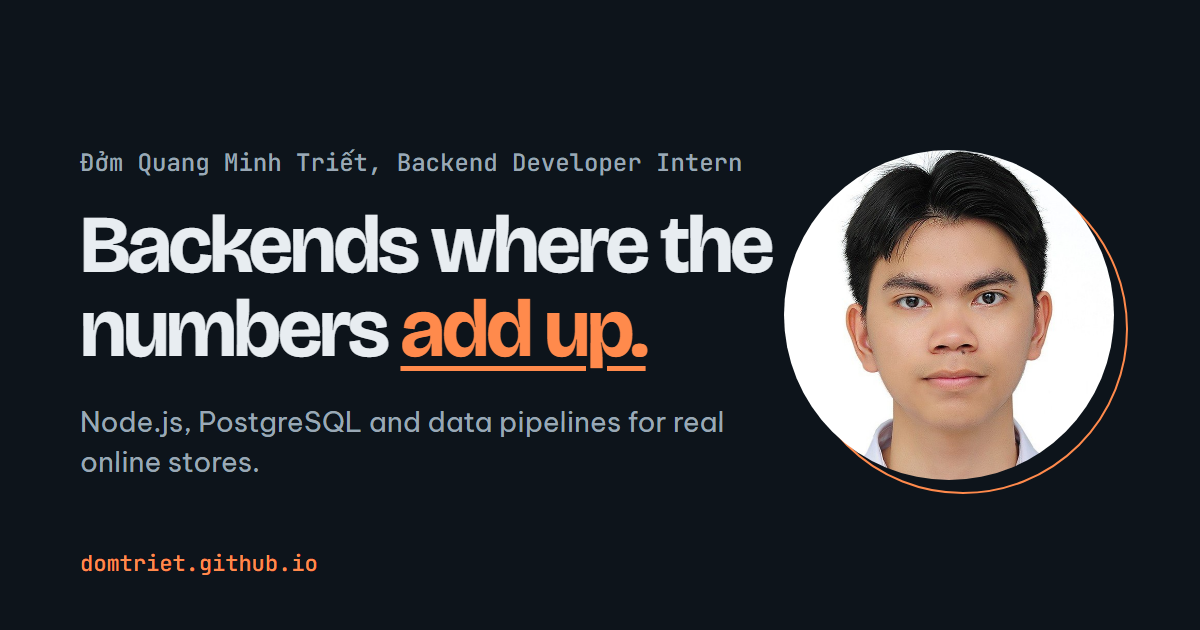
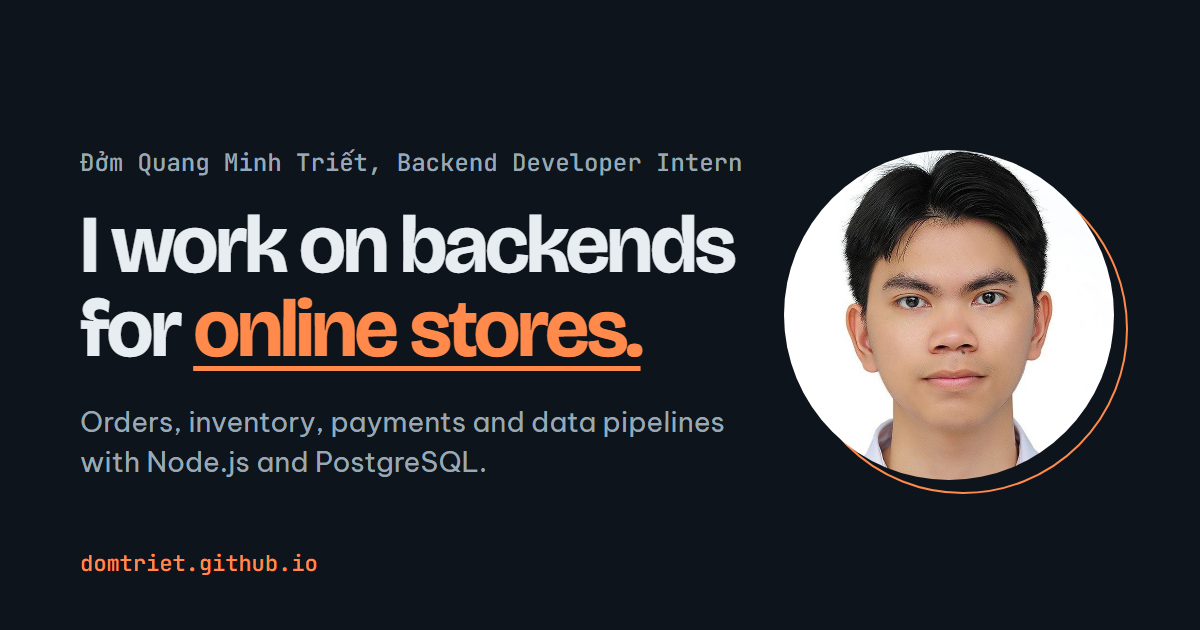
Use neutral, modest wording across the site
Rewrite headline, section titles and descriptions in EN and VI to a
plainer tone, update meta/Open Graph text and the preview image.

Changed region(s): [[0.0617, 0.3317, 0.6475, 0.6032], [0.0617, 0.6333, 0.6167, 0.754]]

diff --git a/js/content.js b/js/content.js
@@ -41,21 +41,21 @@ const UI = {
     "Source code is private (company code). This page covers the architecture and the outcomes.",
     "Mã nguồn là của công ty nên không công khai. Trang này mô tả kiến trúc và kết quả."
   ),
-  footer: T("Built by hand with HTML, CSS and JavaScript.", "Làm thủ công bằng HTML, CSS và JavaScript."),
+  footer: T("Made with HTML, CSS and JavaScript.", "Làm bằng HTML, CSS và JavaScript."),
 };
 
 const HERO = {
   eyebrow: T("Backend developer, open to part-time internships", "Backend developer, tìm thực tập part-time"),
-  title: T("Backends where the numbers <em>add up.</em>", "Backend mà con số nào cũng <em>khớp.</em>"),
+  title: T("I work on backends for <em>online stores.</em>", "Tôi làm backend cho <em>cửa hàng online.</em>"),
   sub: T(
-    "I build order, inventory and payment backends for online stores, and the data pipelines that check the numbers.",
-    "Tôi xây backend đơn hàng, kho và thanh toán cho cửa hàng online, cùng pipeline dữ liệu để đối chiếu mọi con số."
+    "Mostly orders, inventory, payments and the data pipelines around them, while finishing my Information Systems degree.",
+    "Chủ yếu là đơn hàng, kho, thanh toán và pipeline dữ liệu đi kèm, song song với việc hoàn thành chương trình Hệ thống thông tin."
   ),
 };
 
 /* The results ledger: label ........ value */
 const RESULTS = {
-  title: T("What it adds up to", "Kết quả cộng lại"),
+  title: T("A few numbers", "Một vài con số"),
   groups: [
     {
       title: T("IMYSM Studio", "IMYSM Studio"),
@@ -69,7 +69,7 @@ const RESULTS = {
     {
       title: T("BrownVN and ads", "BrownVN và quảng cáo"),
       rows: [
-        { label: T("Admin modules built solo", "Module admin tự xây"), value: "13" },
+        { label: T("Admin modules", "Module quản trị"), value: "13" },
         { label: T("REST endpoints", "REST endpoint"), value: "~71" },
         { label: T("Meta Ads ROAS (Meta-attributed), 09/2026", "ROAS Meta Ads (theo Meta), 09/2026"), value: "3.4x" },
         { label: T("Meta Ads link CTR, 09/2026", "CTR liên kết Meta Ads, 09/2026"), value: "1.5%" },
@@ -79,45 +79,45 @@ const RESULTS = {
 };
 
 const ABOUT = {
-  pull: T("Money, stock and data should add up.", "Tiền, tồn kho và dữ liệu phải khớp nhau."),
+  pull: T("About me", "Về tôi"),
   paras: [
     T(
-      "I'm a fourth-year Information Systems student at the University of Science, VNU-HCM (GPA 8.24/10). Alongside my studies I have designed and shipped two production e-commerce systems for Vietnamese fashion brands: <b>IMYSM Studio</b>, which replaced Haravan, and <b>BrownVN</b>, which I built and run on my own.",
-      "Tôi là sinh viên năm 4 ngành Hệ thống thông tin, ĐH Khoa học Tự nhiên, ĐHQG TP.HCM (GPA 8,24/10). Song song việc học, tôi đã thiết kế và đưa vào vận hành hai hệ thống thương mại điện tử cho các thương hiệu thời trang Việt: <b>IMYSM Studio</b>, thay thế Haravan, và <b>BrownVN</b>, do tôi tự xây và vận hành."
+      "I'm a fourth-year Information Systems student at the University of Science, VNU-HCM (GPA 8.24/10). Alongside my studies I work on two e-commerce systems used by Vietnamese fashion brands: <b>IMYSM Studio</b>, which replaced Haravan, and <b>BrownVN</b>, which I built and maintain.",
+      "Tôi là sinh viên năm 4 ngành Hệ thống thông tin, ĐH Khoa học Tự nhiên, ĐHQG TP.HCM (GPA 8,24/10). Song song việc học, tôi làm trên hai hệ thống thương mại điện tử đang được các thương hiệu thời trang Việt sử dụng: <b>IMYSM Studio</b>, thay thế Haravan, và <b>BrownVN</b>, do tôi xây dựng và bảo trì."
     ),
     T(
-      "I also run the brand's ads, monthly reports and day-to-day operations, so I know the problems the software has to solve first-hand.",
-      "Tôi cũng phụ trách quảng cáo, báo cáo hằng tháng và vận hành shop, nên hiểu rõ bài toán mà phần mềm cần giải quyết."
+      "I also help with the brand's ads, monthly reports and day-to-day operations, which helps me understand what the software needs to do.",
+      "Tôi cũng hỗ trợ quảng cáo, báo cáo hằng tháng và vận hành shop, nhờ vậy hiểu rõ hơn phần mềm cần làm gì."
     ),
     T(
-      "<b>How I work:</b> I write the specification, design the schema and architecture, and review every change. I use Claude Code as a pair programmer, and every change goes through my review and automated tests before it ships.",
-      "<b>Cách tôi làm việc:</b> tôi viết đặc tả, thiết kế schema và kiến trúc, review mọi thay đổi. Tôi dùng Claude Code như một pair programmer, và mọi thay đổi đều qua review của tôi cùng test tự động trước khi phát hành."
+      "<b>How I work:</b> I start from a written specification and the database schema, use Claude Code as a pair programmer, and review changes and run automated tests before release.",
+      "<b>Cách tôi làm việc:</b> tôi bắt đầu từ đặc tả và schema cơ sở dữ liệu, dùng Claude Code như một pair programmer, review thay đổi và chạy test tự động trước khi phát hành."
     ),
   ],
-  doTitle: T("What I do", "Tôi làm gì"),
+  doTitle: T("What I work on", "Những việc tôi làm"),
   does: [
     {
-      title: T("Order and inventory engines", "Lõi đơn hàng và kho"),
-      body: T("Transactional order creation and FIFO batch costing, so cost of goods is accurate to the batch.", "Tạo đơn trong transaction và giá vốn FIFO theo lô, để giá vốn chính xác đến từng lô."),
+      title: T("Orders and inventory", "Đơn hàng và kho"),
+      body: T("Transactional order creation and FIFO batch costing for cost of goods.", "Tạo đơn trong transaction và tính giá vốn FIFO theo lô."),
     },
     {
-      title: T("Payments that confirm themselves", "Thanh toán tự xác nhận"),
-      body: T("VietQR and SePay transfers verified by HMAC-signed webhooks, then a Zalo message to the customer.", "Chuyển khoản VietQR và SePay được xác thực bằng webhook ký HMAC, sau đó gửi tin Zalo cho khách."),
+      title: T("Payment confirmation", "Xác nhận thanh toán"),
+      body: T("VietQR and SePay transfers confirmed through HMAC-signed webhooks, with a Zalo notification to the customer.", "Chuyển khoản VietQR và SePay được xác nhận qua webhook ký HMAC, kèm thông báo Zalo cho khách."),
     },
     {
-      title: T("Pipelines that check the work", "Pipeline kiểm tra lại số liệu"),
-      body: T("Idempotent migrations and a daily ad-data ETL that reconciles with the cost ledger within 1%.", "Migration idempotent và ETL dữ liệu quảng cáo hằng ngày, khớp sổ chi phí trong vòng 1%."),
+      title: T("Data pipelines", "Pipeline dữ liệu"),
+      body: T("Idempotent data migration and a daily ad-data ETL that is reconciled against the cost ledger.", "Migration dữ liệu idempotent và ETL dữ liệu quảng cáo hằng ngày, được đối chiếu với sổ chi phí."),
     },
     {
-      title: T("The business side", "Phía kinh doanh"),
-      body: T("Paid social, monthly reporting and daily store operations, done before and alongside the code.", "Quảng cáo, báo cáo hằng tháng và vận hành shop hằng ngày, làm trước và song song với việc viết code."),
+      title: T("Operations", "Vận hành"),
+      body: T("Paid social, monthly reporting and daily store tasks alongside development.", "Quảng cáo, báo cáo hằng tháng và công việc shop hằng ngày, song song với phát triển."),
     },
   ],
 };
 
 /* ---------- Work ---------- */
 const WORK = {
-  title: T("Selected work", "Dự án chính"),
+  title: T("Work", "Dự án"),
   imysm: {
     name: "IMYSM Studio",
     url: "https://imysmstudio.com",
@@ -129,21 +129,21 @@ const WORK = {
     ),
     stack: ["React", "Node.js", "Express", "Supabase PostgreSQL", "Row-Level Security", "SePay / VietQR", "Zalo OA", "Meta Graph API", "Playwright", "Vercel", "Railway"],
     problem: T(
-      "The brand sells across its website, Facebook, Instagram, Zalo and TikTok, and needed one system for every direct-channel order in place of Haravan.",
-      "Thương hiệu bán qua website, Facebook, Instagram, Zalo và TikTok, và cần một hệ thống duy nhất cho mọi đơn kênh trực tiếp thay cho Haravan."
+      "The brand sells through its website, Facebook, Instagram, Zalo and TikTok, and wanted one system for direct-channel orders instead of Haravan.",
+      "Thương hiệu bán qua website, Facebook, Instagram, Zalo và TikTok, và muốn có một hệ thống chung cho đơn kênh trực tiếp thay cho Haravan."
     ),
     built: [
-      T("<b>Order and inventory core:</b> transactional order creation, FIFO batch costing for accurate COGS, and role-based access with Supabase Auth and Row-Level Security.", "<b>Lõi đơn hàng và kho:</b> tạo đơn trong transaction, giá vốn FIFO theo lô cho COGS chính xác, phân quyền bằng Supabase Auth và Row-Level Security."),
+      T("<b>Orders and inventory:</b> transactional order creation, FIFO batch costing for COGS, and role-based access with Supabase Auth and Row-Level Security.", "<b>Đơn hàng và kho:</b> tạo đơn trong transaction, giá vốn FIFO theo lô cho COGS, phân quyền bằng Supabase Auth và Row-Level Security."),
       T("<b>Automated payments:</b> VietQR/SePay transfers confirmed through HMAC-signed webhooks, triggering Zalo order and shipping notifications.", "<b>Thanh toán tự động:</b> chuyển khoản VietQR/SePay xác nhận qua webhook ký HMAC, kích hoạt thông báo Zalo về đơn và vận chuyển."),
-      T("<b>Idempotent migration</b> from Haravan: 6,281 historical orders and 11,392 transaction rows, rehearsed first, with an exceptions queue that never guesses an unmapped SKU.", "<b>Migration idempotent</b> từ Haravan: 6.281 đơn lịch sử và 11.392 dòng giao dịch, chạy thử trước, có hàng đợi ngoại lệ, không bao giờ đoán SKU chưa map được."),
+      T("<b>Idempotent migration</b> from Haravan: 6,281 historical orders and 11,392 transaction rows, rehearsed first, with an exceptions queue for unmapped SKUs.", "<b>Migration idempotent</b> từ Haravan: 6.281 đơn lịch sử và 11.392 dòng giao dịch, chạy thử trước, có hàng đợi ngoại lệ cho SKU chưa map được."),
       T("<b>Daily Meta Ads ETL</b> from the Graph API into PostgreSQL, powering ROAS, CTR and CPC dashboards and a rule-based recommender.", "<b>ETL Meta Ads hằng ngày</b> từ Graph API vào PostgreSQL, cấp dữ liệu cho dashboard ROAS, CTR, CPC và bộ đề xuất theo luật."),
       T("<b>Tests:</b> critical flows covered by Playwright end-to-end tests and production smoke tests.", "<b>Kiểm thử:</b> các luồng quan trọng được phủ bằng test end-to-end Playwright và smoke test trên production."),
     ],
     outcome: T(
-      "It now handles every direct-channel order. In its first full month (09/2026) the website drove about <b>60% of direct revenue</b>, and the monthly ad figures match the cost ledger and the Meta API within <b>1%</b>.",
-      "Hệ thống hiện xử lý mọi đơn kênh trực tiếp. Trong tháng đầy đủ đầu tiên (09/2026), website chiếm khoảng <b>60% doanh thu kênh trực tiếp</b>, số liệu quảng cáo hằng tháng khớp sổ chi phí và Meta API trong vòng <b>1%</b>."
+      "The system is used for direct-channel orders. In its first full month (09/2026) the website accounted for about 60% of direct revenue, and monthly ad figures were within 1% of the cost ledger and the Meta API.",
+      "Hệ thống đang được dùng cho đơn kênh trực tiếp. Trong tháng đầy đủ đầu tiên (09/2026), website chiếm khoảng 60% doanh thu kênh trực tiếp, số liệu quảng cáo hằng tháng chênh dưới 1% so với sổ chi phí và Meta API."
     ),
-    labels: { problem: T("Problem", "Vấn đề"), built: T("Built", "Đã xây"), outcome: T("Outcome", "Kết quả") },
+    labels: { problem: T("Context", "Bối cảnh"), built: T("What I worked on", "Phần tôi làm"), outcome: T("Results so far", "Kết quả đến nay") },
   },
   map: {
     title: T("How it fits together", "Các phần khớp nhau thế nào"),
@@ -154,11 +154,11 @@ const WORK = {
         tab: T("Order to payment", "Từ đơn đến thanh toán"),
         steps: [
           { name: T("Order placed", "Đặt đơn"), body: T("A customer orders on the website or through a social channel. All direct channels land in the same system.", "Khách đặt đơn trên website hoặc qua kênh mạng xã hội. Mọi kênh trực tiếp cùng đổ về một hệ thống.") },
-          { name: T("Transactional create", "Tạo đơn trong transaction"), body: T("The order and its stock movement are written in one database transaction, so a half-saved order cannot exist.", "Đơn hàng và biến động tồn kho được ghi trong một transaction, nên không thể có đơn lưu dở.") },
-          { name: T("FIFO costing", "Giá vốn FIFO"), body: T("Stock is consumed from the oldest batch first, so each order carries the true cost of the batch it used.", "Hàng được xuất từ lô cũ nhất trước, nên mỗi đơn mang đúng giá vốn của lô đã dùng.") },
+          { name: T("Transactional create", "Tạo đơn trong transaction"), body: T("The order and its stock movement are written in one database transaction to avoid partially saved orders.", "Đơn hàng và biến động tồn kho được ghi trong một transaction để tránh đơn lưu dở.") },
+          { name: T("FIFO costing", "Giá vốn FIFO"), body: T("Stock is taken from the oldest batch first, and each order records the cost of the batch it used.", "Hàng được xuất từ lô cũ nhất trước, mỗi đơn ghi nhận giá vốn của lô đã dùng.") },
           { name: T("Bank transfer", "Chuyển khoản"), body: T("The customer pays by VietQR. SePay watches the bank account and reports the transfer.", "Khách thanh toán bằng VietQR. SePay theo dõi tài khoản ngân hàng và báo lại giao dịch.") },
-          { name: T("HMAC webhook", "Webhook HMAC"), body: T("The webhook signature is verified with HMAC before anything is trusted, then the order is matched and confirmed.", "Chữ ký webhook được xác thực bằng HMAC trước khi tin bất cứ điều gì, sau đó đơn được đối khớp và xác nhận.") },
-          { name: T("Zalo notification", "Thông báo Zalo"), body: T("The customer gets order and shipping updates on Zalo, with no one confirming payment by hand.", "Khách nhận cập nhật đơn hàng và vận chuyển qua Zalo, không ai phải xác nhận thanh toán thủ công.") },
+          { name: T("HMAC webhook", "Webhook HMAC"), body: T("The webhook signature is verified with HMAC, then the transfer is matched to the order and confirmed.", "Chữ ký webhook được xác thực bằng HMAC, sau đó giao dịch được đối khớp với đơn và xác nhận.") },
+          { name: T("Zalo notification", "Thông báo Zalo"), body: T("The customer receives order and shipping updates on Zalo.", "Khách nhận cập nhật đơn hàng và vận chuyển qua Zalo.") },
         ],
       },
       {
@@ -166,9 +166,9 @@ const WORK = {
         tab: T("Haravan migration", "Migration từ Haravan"),
         steps: [
           { name: T("Haravan export", "Dữ liệu Haravan"), body: T("6,281 historical orders and 11,392 transaction rows exported from the old platform.", "6.281 đơn lịch sử và 11.392 dòng giao dịch được xuất từ nền tảng cũ.") },
-          { name: T("Rehearsal", "Chạy thử"), body: T("The whole migration is rehearsed on a copy first, so surprises show up before production does.", "Toàn bộ migration được chạy thử trên bản sao trước, để bất ngờ xuất hiện trước khi chạy thật.") },
+          { name: T("Rehearsal", "Chạy thử"), body: T("The migration is rehearsed on a copy first to catch issues before the real run.", "Migration được chạy thử trên bản sao trước để phát hiện lỗi trước khi chạy thật.") },
           { name: T("Idempotent load", "Nạp idempotent"), body: T("The load can be re-run safely: running it twice gives the same result as running it once.", "Có thể chạy lại an toàn: chạy hai lần cho kết quả giống chạy một lần.") },
-          { name: T("Exceptions queue", "Hàng đợi ngoại lệ"), body: T("A row with an unmapped SKU goes to a queue for a person to resolve. The pipeline never guesses.", "Dòng có SKU chưa map được đưa vào hàng đợi để người xử lý. Pipeline không bao giờ đoán.") },
+          { name: T("Exceptions queue", "Hàng đợi ngoại lệ"), body: T("Rows with an unmapped SKU go to a queue for manual review.", "Dòng có SKU chưa map được đưa vào hàng đợi để xem xét thủ công.") },
         ],
       },
       {
@@ -177,9 +177,9 @@ const WORK = {
         steps: [
           { name: T("Meta Graph API", "Meta Graph API"), body: T("Ad spend and performance are pulled from the Graph API once a day.", "Chi phí và hiệu quả quảng cáo được lấy từ Graph API mỗi ngày.") },
           { name: T("ETL", "ETL"), body: T("The raw data is cleaned and shaped into tables that match how the business reads its numbers.", "Dữ liệu thô được làm sạch và chuyển thành bảng khớp với cách doanh nghiệp đọc số liệu.") },
-          { name: T("PostgreSQL", "PostgreSQL"), body: T("Everything lands in PostgreSQL next to orders and the cost ledger, so ads and sales can be joined.", "Mọi thứ nằm trong PostgreSQL cạnh đơn hàng và sổ chi phí, nên có thể ghép quảng cáo với doanh số.") },
-          { name: T("Dashboards", "Dashboard"), body: T("ROAS, CTR and CPC dashboards, plus a rule-based recommender that suggests where budget should move.", "Dashboard ROAS, CTR, CPC, cùng bộ đề xuất theo luật gợi ý nơi nên chuyển ngân sách.") },
-          { name: T("Reconciliation", "Đối chiếu"), body: T("Monthly figures are checked against the cost ledger and the Meta API and agree within 1%.", "Số liệu hằng tháng được đối chiếu với sổ chi phí và Meta API và khớp trong vòng 1%.") },
+          { name: T("PostgreSQL", "PostgreSQL"), body: T("The data is stored in PostgreSQL next to orders and the cost ledger, so ads and sales can be compared.", "Dữ liệu được lưu trong PostgreSQL cạnh đơn hàng và sổ chi phí, nên có thể so sánh quảng cáo với doanh số.") },
+          { name: T("Dashboards", "Dashboard"), body: T("ROAS, CTR and CPC dashboards, plus simple rule-based budget suggestions.", "Dashboard ROAS, CTR, CPC, cùng gợi ý ngân sách đơn giản theo luật.") },
+          { name: T("Reconciliation", "Đối chiếu"), body: T("Monthly figures are checked against the cost ledger and the Meta API (difference under 1%).", "Số liệu hằng tháng được đối chiếu với sổ chi phí và Meta API (chênh dưới 1%).") },
         ],
       },
     ],
@@ -189,7 +189,7 @@ const WORK = {
     url: "https://brownvn.com",
     urlLabel: "brownvn.com",
     role: T("Freelance Full-stack Developer, 01/2026 - Present", "Freelance Full-stack Developer, 01/2026 - Hiện tại"),
-    summary: T("A fashion brand's storefront, admin dashboard and database, built and run by me alone.", "Storefront, trang quản trị và cơ sở dữ liệu của một thương hiệu thời trang, do một mình tôi xây và vận hành."),
+    summary: T("Storefront, admin dashboard and database for a fashion brand, which I built and maintain.", "Storefront, trang quản trị và cơ sở dữ liệu cho một thương hiệu thời trang, do tôi xây dựng và bảo trì."),
     figures: [
       { value: "13", label: T("admin modules", "module admin") },
       { value: "~71", label: T("REST endpoints", "REST endpoint") },
@@ -211,14 +211,14 @@ const EXPERIENCE = {
       dateVi: "08/2026 - Hiện tại",
       role: T("Full-stack Developer, IMYSM", "Full-stack Developer, IMYSM"),
       meta: T("Part-time, Ho Chi Minh City", "Part-time, TP. Hồ Chí Minh"),
-      body: [T("Designed, built and run IMYSM Studio. The full story is in Selected work above.", "Thiết kế, xây dựng và vận hành IMYSM Studio. Câu chuyện đầy đủ nằm ở phần Dự án chính phía trên.")],
+      body: [T("Work on IMYSM Studio. Details are in the Work section above.", "Làm trên IMYSM Studio. Chi tiết ở phần Dự án phía trên.")],
     },
     {
       date: "01/2026 - Present",
       dateVi: "01/2026 - Hiện tại",
       role: T("Freelance Full-stack Developer, BrownVN", "Freelance Full-stack Developer, BrownVN"),
       meta: T("Freelance", "Freelance"),
-      body: [T("Built and run the storefront, admin dashboard and database solo. Details are in Selected work above.", "Tự xây và vận hành storefront, trang quản trị và cơ sở dữ liệu. Chi tiết nằm ở phần Dự án chính phía trên.")],
+      body: [T("Built and maintain the storefront, admin dashboard and database. Details are in the Work section above.", "Xây dựng và bảo trì storefront, trang quản trị và cơ sở dữ liệu. Chi tiết ở phần Dự án phía trên.")],
     },
     {
       date: "07/2024 - Present",
@@ -226,7 +226,7 @@ const EXPERIENCE = {
       role: T("Marketing and Operations Analyst, IMYSM", "Marketing và Operations Analyst, IMYSM"),
       meta: T("Part-time, fashion brand selling through its website, social channels and marketplaces", "Part-time, thương hiệu thời trang bán qua website, mạng xã hội và sàn TMĐT"),
       body: [
-        T("Run Meta ads (about 6.3M VND spend in 09/2026): <b>3.4x Meta-attributed ROAS</b> (7.0x on total direct-channel revenue) and <b>1.5% link CTR</b>.", "Chạy quảng cáo Meta (chi khoảng 6,3 triệu đ trong 09/2026): <b>ROAS 3,4x theo Meta</b> (7,0x trên toàn bộ doanh thu kênh trực tiếp) và <b>CTR liên kết 1,5%</b>."),
+        T("Run Meta ads (about 6.3M VND spend in 09/2026): 3.4x Meta-attributed ROAS (7.0x on total direct-channel revenue) and 1.5% link CTR.", "Chạy quảng cáo Meta (chi khoảng 6,3 triệu đ trong 09/2026): ROAS 3,4x theo Meta (7,0x trên toàn bộ doanh thu kênh trực tiếp) và CTR liên kết 1,5%."),
         T("Prepare monthly business reports (revenue, costs and profit by channel and SKU) from stock counts and sales data.", "Làm báo cáo kinh doanh hằng tháng (doanh thu, chi phí, lợi nhuận theo kênh và SKU) từ kiểm kho và dữ liệu bán hàng."),
         T("Handle store operations: order packing, stock checks, goods receiving and expense tracking.", "Vận hành shop: soạn đơn, kiểm kho, nhập hàng và theo dõi chi tiêu."),
       ],
@@ -275,8 +275,8 @@ const UNIVERSITY = {
     date: "01/2026 - 05/2026",
     sub: T("Data Security in IS course, team of 5", "Môn An toàn và bảo mật dữ liệu trong HTTT, nhóm 5 người"),
     body: T(
-      "Built the core of Subsystem 1: a C# WinForms Oracle admin app to create and drop users and roles, grant and revoke privileges (WITH GRANT OPTION, column-level SELECT and UPDATE) and inspect privileges per user or role. The wider project secured a hospital database with RBAC, VPD, Oracle Label Security, auditing and RMAN recovery.",
-      "Xây nền tảng Phân hệ 1: ứng dụng C# WinForms quản trị Oracle, tạo và xóa user, role, cấp và thu hồi quyền (WITH GRANT OPTION, SELECT và UPDATE cấp cột) và xem quyền theo user hoặc role. Toàn đồ án bảo mật CSDL bệnh viện bằng RBAC, VPD, Oracle Label Security, kiểm toán và khôi phục RMAN."
+      "Worked on Subsystem 1: a C# WinForms Oracle admin app to create and drop users and roles, grant and revoke privileges (WITH GRANT OPTION, column-level SELECT and UPDATE) and inspect privileges per user or role. The wider project secured a hospital database with RBAC, VPD, Oracle Label Security, auditing and RMAN recovery.",
+      "Làm Phân hệ 1: ứng dụng C# WinForms quản trị Oracle, tạo và xóa user, role, cấp và thu hồi quyền (WITH GRANT OPTION, SELECT và UPDATE cấp cột) và xem quyền theo user hoặc role. Toàn đồ án bảo mật CSDL bệnh viện bằng RBAC, VPD, Oracle Label Security, kiểm toán và khôi phục RMAN."
     ),
     stack: ["Oracle", "C#", "WinForms", "RBAC", "VPD", "OLS"],
     url: "https://github.com/DomTriet/oracle-admin-hospital-security",
@@ -286,9 +286,9 @@ const UNIVERSITY = {
 /* ---------- Skills, foundation at the bottom ---------- */
 const SKILLS = {
   title: T("Skills", "Kỹ năng"),
-  intro: T("Stacked from foundation to growing edge, the way I think about a system.", "Xếp từ nền tảng đến phần đang phát triển, đúng cách tôi nghĩ về một hệ thống."),
+  intro: T("Grouped from fundamentals at the bottom to what I am still learning at the top.", "Xếp từ kiến thức nền ở dưới đến những thứ tôi đang học ở trên."),
   layers: [
-    { name: T("Growing edge", "Đang phát triển"), edge: true, items: ["ETL pipelines", "pandas", "PyTorch", "Meta Graph API", "Google Sheets API", "Knowledge-graph recommenders (KGAT)"] },
+    { name: T("Currently learning", "Đang học"), edge: true, items: ["ETL pipelines", "pandas", "PyTorch", "Meta Graph API", "Google Sheets API", "Knowledge-graph recommenders (KGAT)"] },
     { name: T("Delivery and quality", "Triển khai và chất lượng"), items: ["Git / GitHub", "GitHub Actions CI", "Jest", "Playwright (E2E)", "ESLint", "Vercel", "Railway"] },
     { name: T("Frontend and integrations", "Frontend và tích hợp"), items: ["React", "Angular", "Vite", "Tailwind CSS", "SePay / VietQR", "Zalo OA", "GHN", "PayPal", "Cloudinary", "Meta Pixel / CAPI"] },
     { name: T("Services", "Dịch vụ"), items: ["Node.js", "Express", "REST API design", "Zod validation", "Webhooks (HMAC)", "Authentication and RBAC"] },
@@ -296,7 +296,7 @@ const SKILLS = {
     { name: T("Foundations", "Nền tảng"), items: ["JavaScript", "TypeScript", "SQL", "Python", "C#"] },
   ],
   business: {
-    name: T("Beside the stack: the business side", "Bên cạnh stack: phía kinh doanh"),
+    name: T("Other", "Khác"),
     items: ["Meta Ads", "P&L, COGS and ROAS reporting", "Excel", "Google Sheets", "Inventory management"],
   },
 };
@@ -342,8 +342,8 @@ const EDU = {
 const CONTACT = {
   title: T("Looking for a backend internship in Ho Chi Minh City.", "Đang tìm thực tập Backend tại TP. Hồ Chí Minh."),
   body: T(
-    "Part-time, available throughout the week, growing toward Data Engineering. If you have a problem with orders, stock, payments or messy data, I'd like to hear it.",
-    "Part-time, làm được cả tuần, định hướng Data Engineering. Nếu bạn có bài toán về đơn hàng, kho, thanh toán hoặc dữ liệu lộn xộn, tôi rất muốn nghe."
+    "Part-time, available throughout the week, with an interest in Data Engineering. I would be glad to hear about suitable openings.",
+    "Part-time, làm được cả tuần, quan tâm đến Data Engineering. Tôi rất mong nhận được thông tin về các vị trí phù hợp."
   ),
   cvEn: T("CV in English (PDF)", "CV tiếng Anh (PDF)"),
   cvVi: T("CV in Vietnamese (PDF)", "CV tiếng Việt (PDF)"),

diff --git a/index.html b/index.html
@@ -4,7 +4,7 @@
 <meta charset="utf-8">
 <meta name="viewport" content="width=device-width, initial-scale=1">
 <title>Đởm Quang Minh Triết | Backend Developer Intern (Node.js, PostgreSQL)</title>
-<meta name="description" content="Backend Developer Intern in Ho Chi Minh City. Designed and shipped two production e-commerce backends: FIFO inventory, payment webhooks and ETL pipelines.">
+<meta name="description" content="Information Systems student in Ho Chi Minh City working on e-commerce backends and data pipelines with Node.js and PostgreSQL. Open to part-time backend internships.">
 <meta name="author" content="Đởm Quang Minh Triết">
 <meta name="theme-color" content="#0d141b" media="(prefers-color-scheme: dark)">
 <meta name="theme-color" content="#e8ecf0" media="(prefers-color-scheme: light)">
@@ -12,19 +12,19 @@
 <meta property="og:type" content="profile">
 <meta property="og:site_name" content="Đởm Quang Minh Triết">
 <meta property="og:title" content="Đởm Quang Minh Triết | Backend Developer Intern">
-<meta property="og:description" content="Backends where the numbers add up. Node.js, PostgreSQL and data pipelines for two production e-commerce systems in Vietnam.">
+<meta property="og:description" content="Information Systems student working on e-commerce backends and data pipelines with Node.js and PostgreSQL.">
 <meta property="og:url" content="https://domtriet.github.io/">
 <meta property="og:image" content="https://domtriet.github.io/assets/og-image.png">
 <meta property="og:image:width" content="1200">
 <meta property="og:image:height" content="630">
-<meta property="og:image:alt" content="Đởm Quang Minh Triết, Backend Developer Intern: Backends where the numbers add up.">
+<meta property="og:image:alt" content="Đởm Quang Minh Triết, Backend Developer Intern">
 <meta property="og:locale" content="en_US">
 <meta property="og:locale:alternate" content="vi_VN">
 <meta property="profile:first_name" content="Triết">
 <meta property="profile:last_name" content="Đởm Quang Minh">
 <meta name="twitter:card" content="summary_large_image">
 <meta name="twitter:title" content="Đởm Quang Minh Triết | Backend Developer Intern">
-<meta name="twitter:description" content="Backends where the numbers add up. Node.js, PostgreSQL and data pipelines for two production e-commerce systems in Vietnam.">
+<meta name="twitter:description" content="Information Systems student working on e-commerce backends and data pipelines with Node.js and PostgreSQL.">
 <meta name="twitter:image" content="https://domtriet.github.io/assets/og-image.png">
 <link rel="icon" href="assets/favicon.svg" type="image/svg+xml">
 <link rel="icon" href="assets/favicon-32.png" type="image/png" sizes="32x32">
